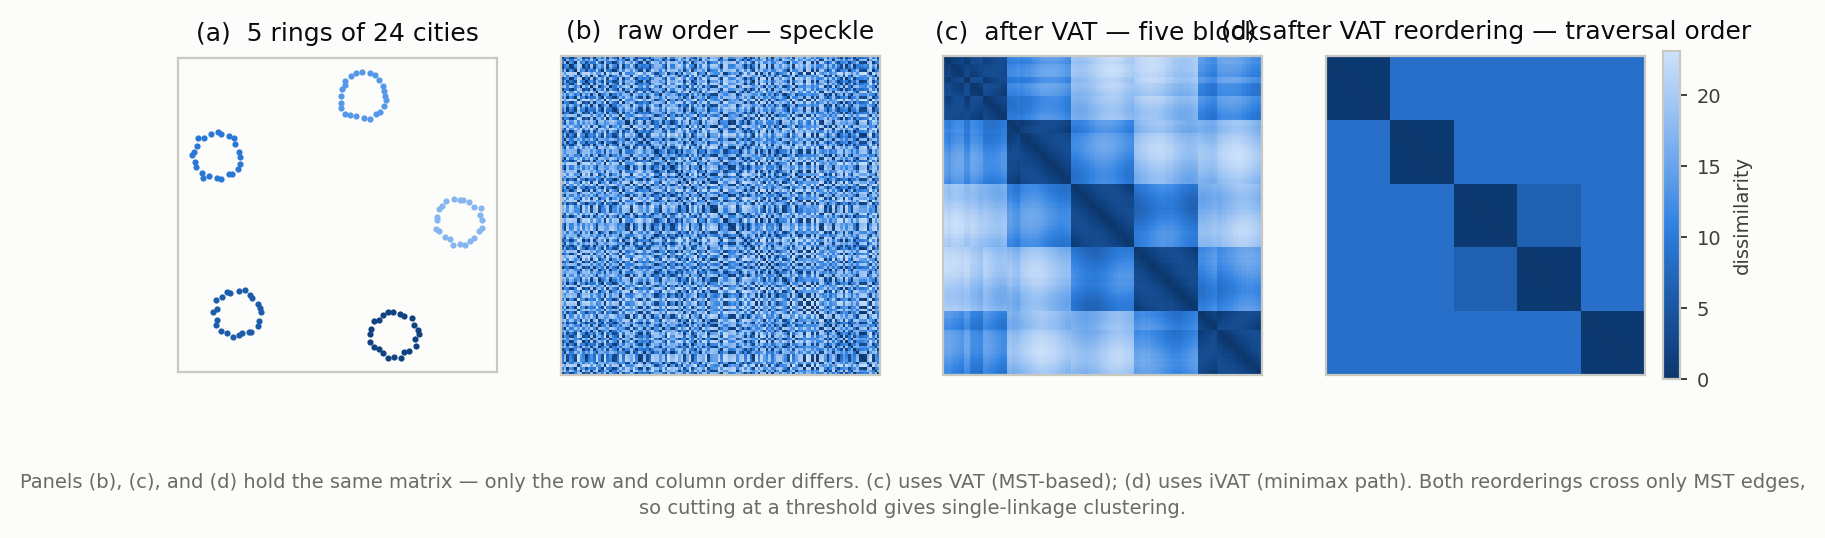
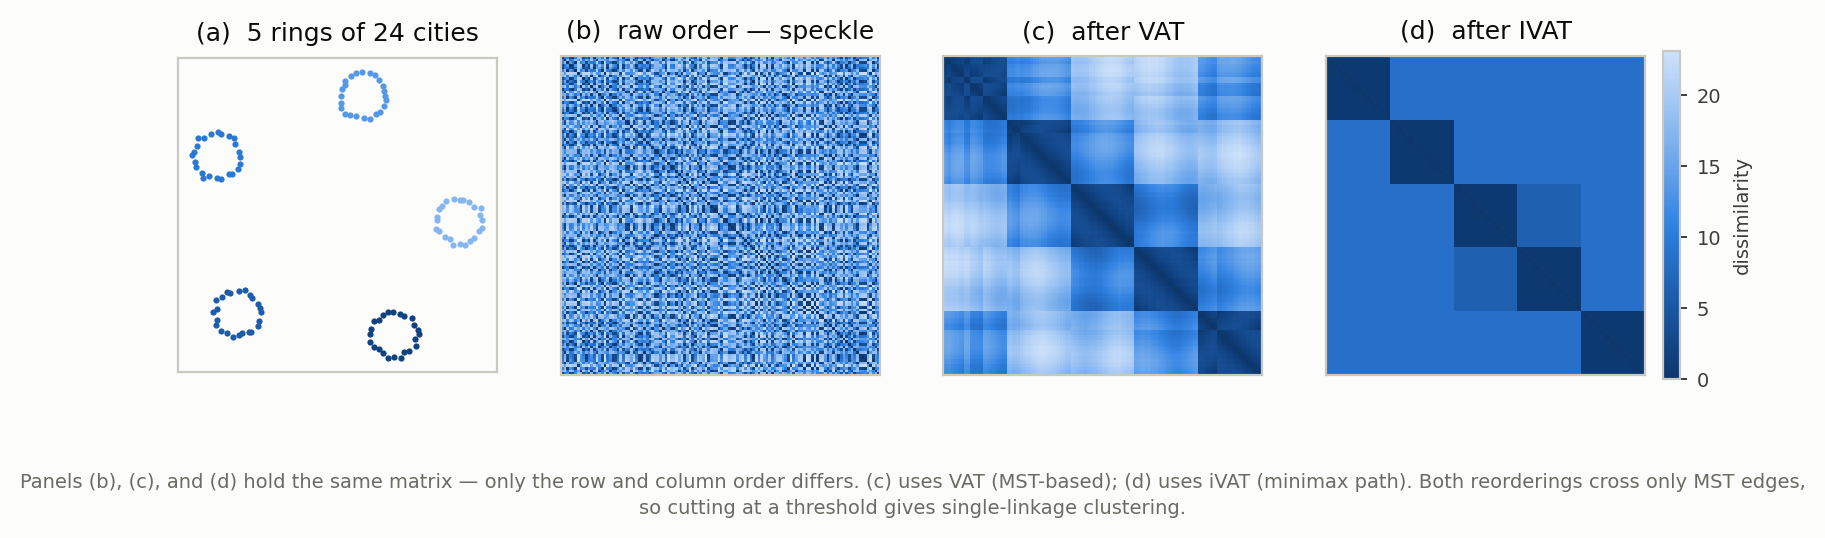
fix: simplify subplot titles for VAT/IVAT panels
- Panel (c): 'after VAT — five blocks' → 'after VAT'
- Panel (d): 'after VAT reordering — traversal order' → 'after IVAT'
- Cleaner, more concise labeling while maintaining clarity

Changed region(s): [[0.4997, 0.0297, 0.9682, 0.0892]]

diff --git a/reproduce/figures/fig_02_vat_rdi.py b/reproduce/figures/fig_02_vat_rdi.py
@@ -86,10 +86,10 @@ def build():
     vmax = float(D.max())
     F.imshow_matrix(before, D, title="(b)  raw order — speckle", vmin=0, vmax=vmax)
     F.imshow_matrix(
-        after, RV, title="(c)  after VAT — five blocks", vmin=0, vmax=vmax
+        after, RV, title="(c)  after VAT", vmin=0, vmax=vmax
     )
     im = F.imshow_matrix(
-        ivat, RIV, title="(d)  after VAT reordering — traversal order", vmin=0, vmax=vmax
+        ivat, RIV, title="(d)  after IVAT", vmin=0, vmax=vmax
     )
 
     # One shared colourbar. All panels hold the same numbers.
